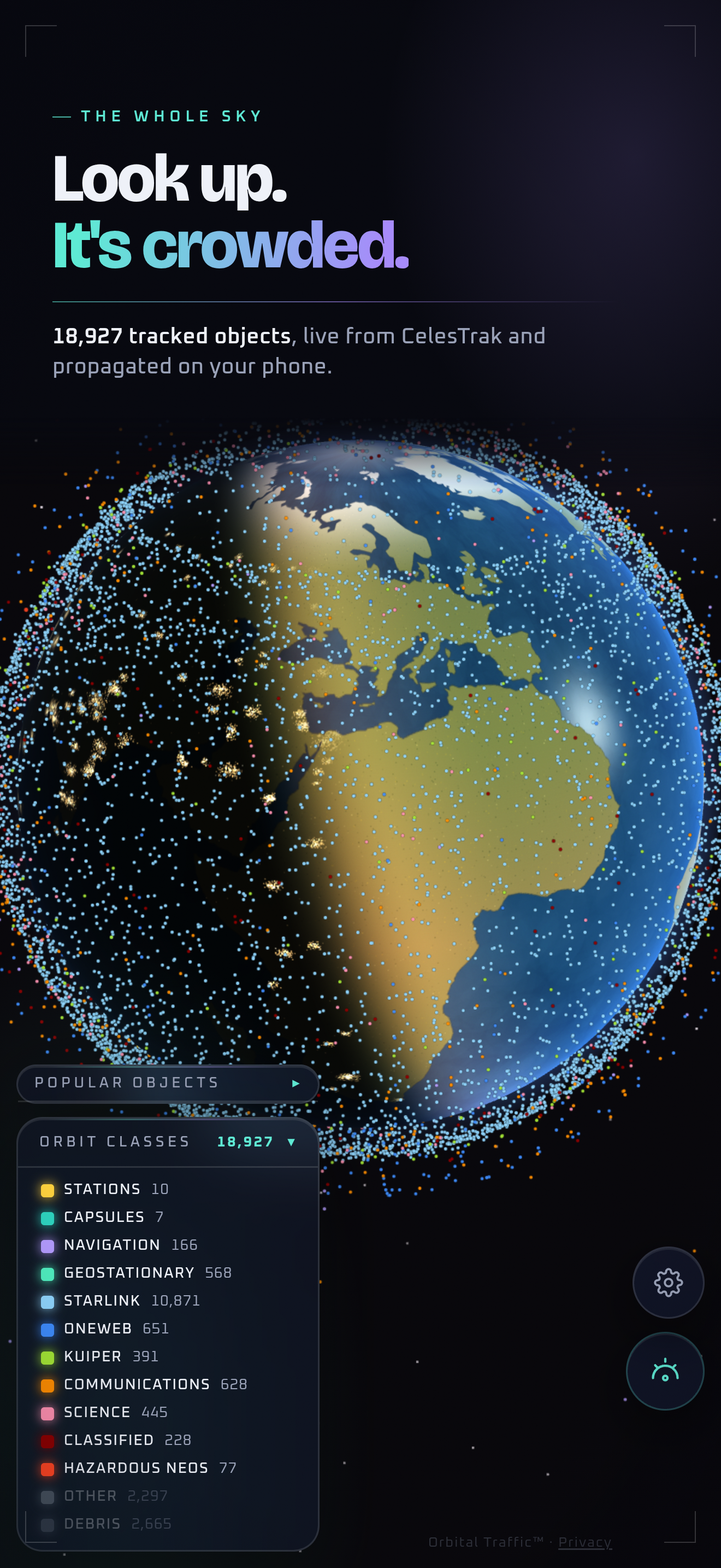
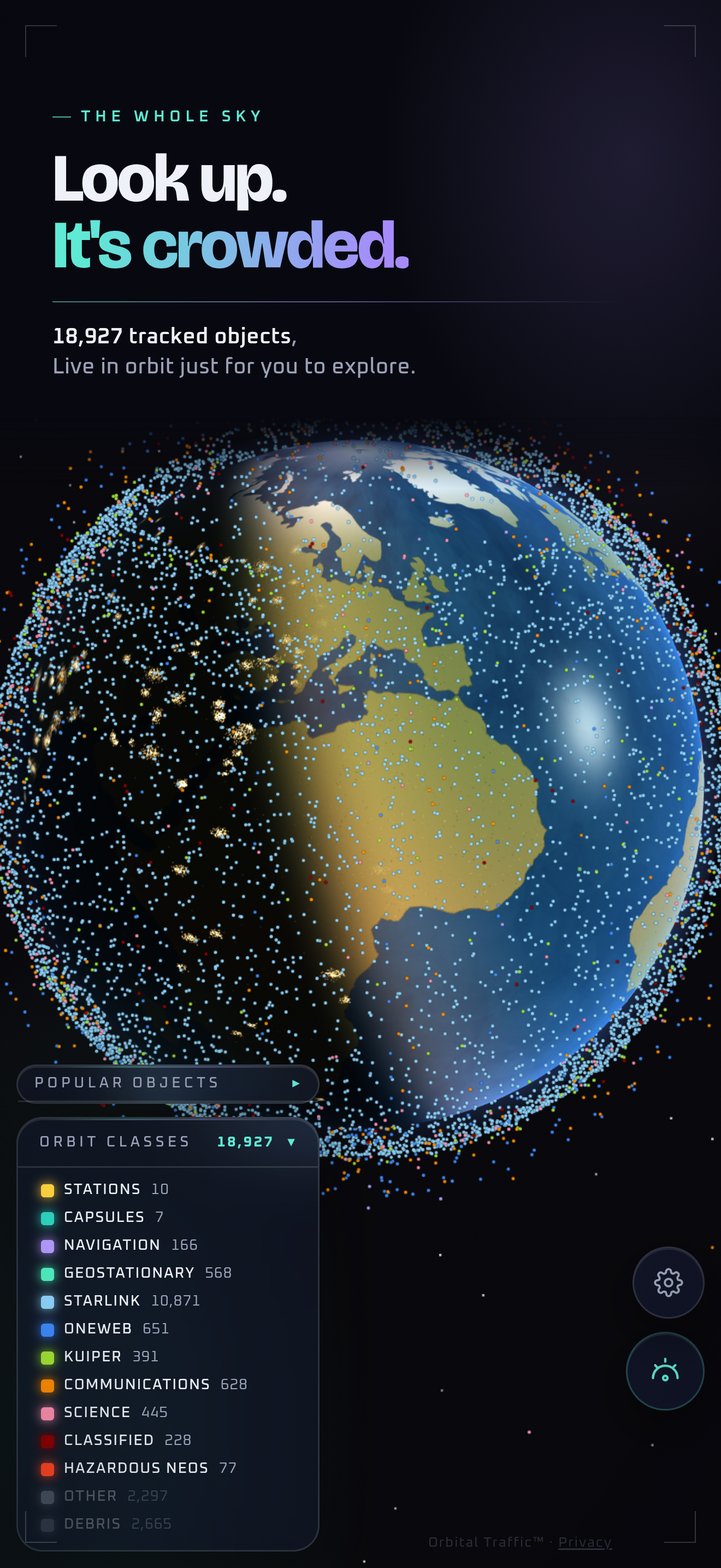
Revise the App Store screenshot set
Copy and framing changes per Ian's review.

Shot 1: new subline. Set with a deliberate line break after the object
count rather than letting it wrap, which was orphaning "explore." alone on
the second line.

Shot 2: new headline and subline. The headline no longer carries the
overhead count, and runs to three lines, so this shot drops to a 104px
size and starts its panel lower to keep the same air under the copy —
render.mjs grew a per-shot h1Size for it.

Shot 3: crop moved back up to the shared card crop so LINK's photo and
its full description are both in frame.

Shot 4: Starlink shell replaced with Crew Dragon 12. The capsule card is
the better story — phase tracking from launch through docking to landing
is something no other tracker does, and Dragon's card shows it running
live, with a DOCKED block reading "at ISS · 33 days in this phase". Its
headline avoids opening with "Every" so it doesn't echo shot 3 in the
adjacent frame. capture.mjs loses the legend-isolation and camera-reset
machinery this shot no longer needs.

Shot 5: the figure-clearing scroll is gone, so the ISS photo is in frame.

Both card shots that now show an object photo also show its credit line,
and photos.json credits `iss` and `dragon` "Source unconfirmed —
pre-existing image". That is a rights question on a public listing rather
than a framing one; README says so and notes that replacing those 11
files fixes the app and the listing together, with these screenshots
[…]

diff --git a/exports/app-store-screenshots/README.md b/exports/app-store-screenshots/README.md
@@ -30,18 +30,26 @@ sky it draws is visibly, alarmingly crowded.
 | # | File | Says | Shows |
 |---|---|---|---|
 | 1 | `01-look-up.png` | Look up. **It's crowded.** | The live globe, terminator down the left limb, night-side city lights, full Orbit Classes legend |
-| 2 | `02-overhead.png` | Right now, **N are over you.** | What's Overhead from Los Angeles — category chips, tier-ranked list |
-| 3 | `03-every-dot.png` | Every dot **has a story.** | LINK's card, leading with the curated write-up and its failing reaction wheels |
-| 4 | `04-starlink.png` | One company. **10,871 satellites.** | Every class hidden but Starlink — the shell, and the legend showing why |
-| 5 | `05-crew.png` | Seven people **live up there.** | The ISS card: live crew, expedition, and today's activity |
+| 2 | `02-overhead.png` | Right now, **See what objects are overhead** | What's Overhead from Los Angeles — category chips, tier-ranked list |
+| 3 | `03-every-dot.png` | Every dot **has a story.** | LINK's card — photo, identity, and the full curated write-up down to its failing reaction wheels |
+| 4 | `04-capsules.png` | Follow the fleet, **launch to landing.** | Crew Dragon 12 mid-mission: its photo, its DOCKED phase block ("at ISS · 33 days in this phase") and recent activity |
+| 5 | `05-crew.png` | Seven people **live up there.** | The ISS card: photo, live crew, expedition, today's activity |
 
 Shot 2 is the conversion shot. A globe is impressive; *your* sky is personal.
 
-Shot 4 was originally planned as the geostationary belt — 568 objects in one
-perfect ring is a lovely diagram. It was tested and dropped: at the distance
-needed to close the ring in a 0.46 aspect frame, Earth shrinks to nothing and
-the belt reads as scattered dots. Starlink's shell keeps its density at
-thumbnail size and carries a sharper fact.
+Shot 4 went through two earlier drafts. The geostationary belt — 568 objects in
+one perfect ring — was tested and dropped: at the distance needed to close that
+ring in a 0.46 aspect frame Earth shrinks to nothing and the belt reads as
+scatter. An isolated Starlink shell replaced it and worked visually, but the
+capsule card is the better story: phase tracking from launch through docking to
+landing is something no other tracker does, and Crew Dragon 12's card shows it
+running live.
+
+The cost of that swap is worth knowing: shots 3, 4 and 5 are now all object
+cards with a photo band, so the set carries less structural variety than when
+shot 4 was a globe. Swapping any one of them back for a globe view (the
+Starlink shell capture is still reproducible from git history) would restore
+the rhythm if it ever reads as repetitive.
 
 ## Design
 
@@ -104,13 +112,15 @@ retired orbit ring.
 
 ## Known issues these screenshots had to work around
 
-1. **Photo provenance.** 11 of the 20 entries in
+1. **Photo provenance — visible on shots 4 and 5.** 11 of the 20 entries in
    `apps/web/public/data/photos.json` — including `iss`, `hubble`, `jwst`,
    `dragon`, `soyuz`, `cygnus` and all five asteroids — are credited "Source
-   unconfirmed — pre-existing image", and that credit renders on screen over
-   the photo. Shot 5 scrolls the figure out of frame for this reason. Unknown
-   provenance is a rights problem on a public store listing, and worth
-   resolving before submission independently of any screenshot.
+   unconfirmed — pre-existing image", and the app renders that credit over the
+   photo. Both card shots that show an object photo therefore carry that line,
+   small, at the photo's bottom right. Unknown provenance is a rights problem
+   on a public store listing regardless of the screenshots; replacing those 11
+   files with properly-licensed NASA/ESA/SpaceX imagery fixes the listing and
+   the app in one move, and these screenshots would only need a re-run.
 2. **The mobile clock reads 12-hour with no meridiem.** `clock.js` renders
    `.utc-compact` as `6:44 UTC` when it is 18:44 UTC (the share card's own
    timestamp correctly says `18:44 UTC`). It's deliberate CSS, but it sits in
@@ -119,6 +129,6 @@ retired orbit ring.
    under 768px — it's desktop-only, so it cannot appear in an iPhone
    screenshot.
 4. **LINK's photo is a category-generic Landsat 9 press image.** Correctly
-   credited, but it reads as "this is Landsat". Shot 3 crops below the figure,
-   which also puts the curated writing — the actual point of that screenshot —
-   at the top of the card.
+   credited, and shown by request, but at a glance it reads as "this is
+   Landsat" rather than as an illustration of the science category. A curated
+   photo for LINK, or a procedural fallback, would both be clearer.
